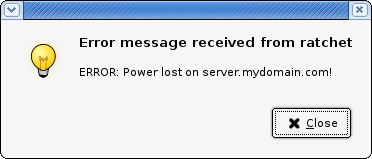
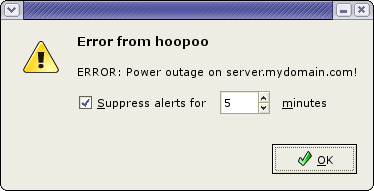
- uploaded new screenshots.

diff --git a/htdocs/screenshots.html b/htdocs/screenshots.html
@@ -19,18 +19,18 @@
       <h1>Screenshots</h1>
 
       <img alt="Main window" title="Main window"
-	src="images/ss/bandsaw.png" width="445" height="225"/>
+	src="images/ss/bandsaw.png" width="410" height="225"/>
 
       <p/>      
 
       <img alt="General preferences" title="General preferences"
-	src="images/ss/general-preferences.png" 
-	width="444" height="367"/>
+	src="images/ss/preferences.png" 
+	width="326" height="328"/>
 
       <p/>      
 
       <img alt="Sample alert" title="Sample alert"
-	src="images/ss/alert.png" width="372" height="159"/>
+	src="images/ss/alert.png" width="374" height="191"/>
 
       <!--#include virtual="ssi/copyright.html" -->
 
